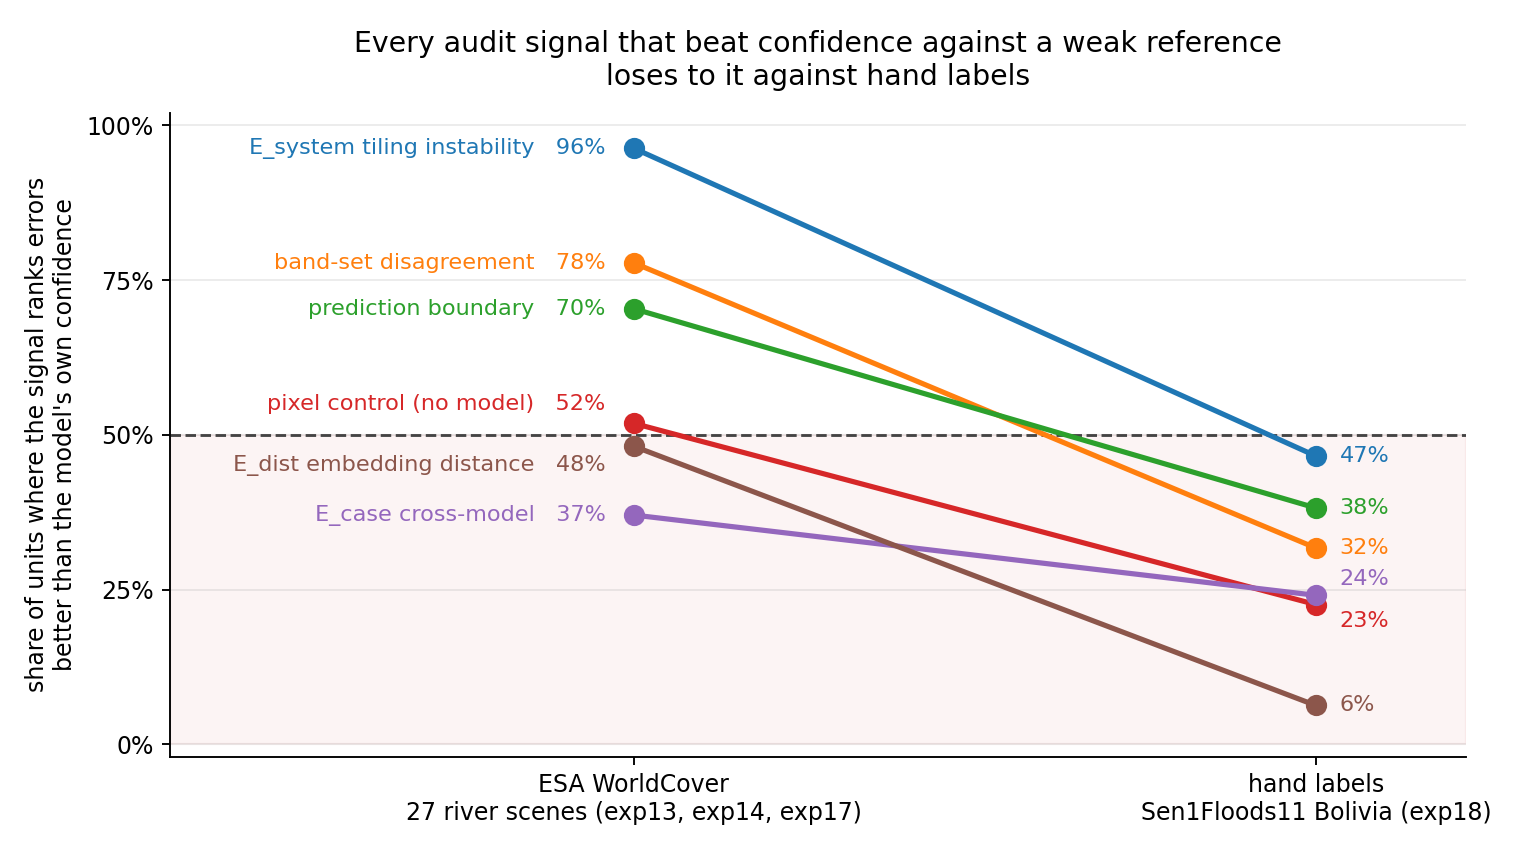
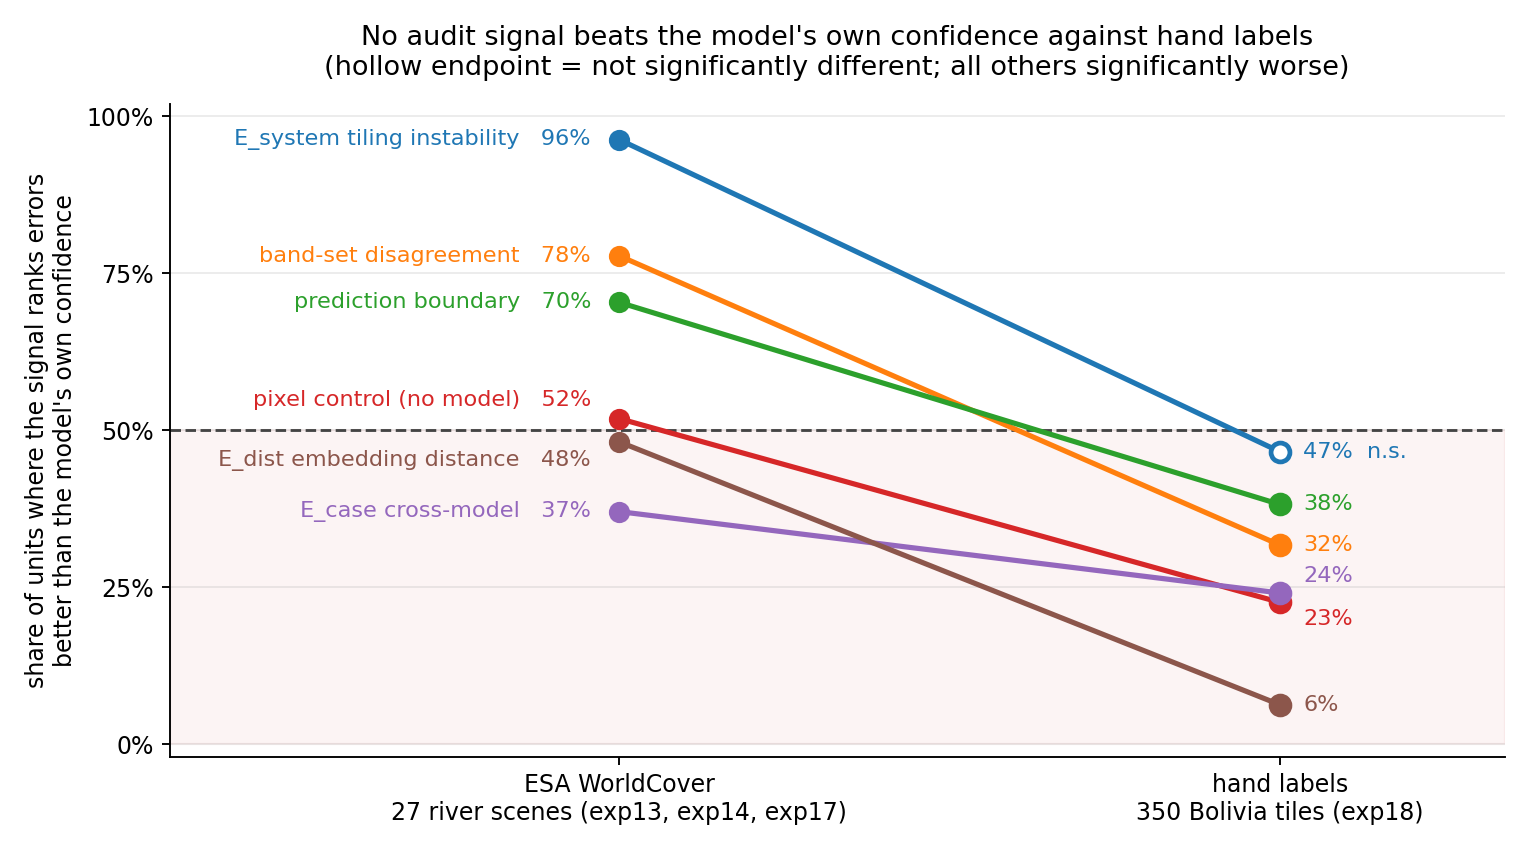
fix(figure): correct an overstated claim; record the statistical limits
The figure I added asserted that every signal 'loses to' confidence against
hand labels. That is false for the headline signal: aligned tile-phase is
163/187 at p=0.22 on Sen1Floods11 Bolivia, which is not significantly
different from confidence. It fails to win; it does not lose. signals.md and
comparisons.md already stated this correctly - the figure did not.

- Title is now 'No audit signal beats the model's own confidence against hand
  labels', which holds for all six.
- Endpoints encode significance: hollow means not significantly different
  (tile-phase, tagged n.s.), filled means significantly worse. p-values read
  from exp18_sen1floods.csv, not hard-coded.
- x-axis names the unit on each side - 27 river scenes against 350 Bolivia
  tiles - since the two columns do not share a denominator.

protocol.md gains a 'Known limits of these tests' section recording three
things a reader is entitled to check:

- The 27 scenes are not 27 independent draws. They sample eight named
  rivers. One vote per river gives tiling instability 8/8, p=0.008, against
  26/27, p=4e-07 at scene level. The result survives clustering, but its
  significance is three orders of magnitude weaker than the scene-level
  p-value implies, so that p-value should not be quoted alone.
- A null is not a demonstration of equality. No equivalence test has been run.
- The WorldCover-to-Sen1Floods11 comparison changes reference, task,
[…]

diff --git a/exp/summary_transfer.py b/exp/summary_transfer.py
@@ -12,6 +12,7 @@ exp18_sen1floods.csv. Writes exp/out/summary_transfer.png.
 
     uv run --extra geo python exp/summary_transfer.py
 """
+import collections
 import csv
 import json
 import os
@@ -43,22 +44,22 @@ with open(os.path.join(OUT, "exp18_sen1floods.csv")) as fh:
 SIGNALS = [
     ("E_system tiling instability",
      (exp13["tile-phase (aligned)"]["w"], exp13["tile-phase (aligned)"]["l"]),
-     "tile-phase (aligned)|W/L"),
+     "tile-phase (aligned)"),
     ("band-set disagreement",
      head_to_head("exp17_internal_evidence.csv", "band-set disagreement", "baseline"),
-     "band-set disagreement|W/L"),
+     "band-set disagreement"),
     ("prediction boundary",
      head_to_head("exp14_boundary_ablation.csv", "pred-boundary", "baseline"),
-     "boundary indicator|W/L"),
+     "boundary indicator"),
     ("pixel control (no model)",
      (exp13["control"]["w"], exp13["control"]["l"]),
-     "control NDWI gradient|W/L"),
+     "control NDWI gradient"),
     ("E_case cross-model",
      (exp13["E_case"]["w"], exp13["E_case"]["l"]),
-     "E_case |Nano-Base||W/L"),
+     "E_case |Nano-Base|"),
     ("E_dist embedding distance",
      (exp13["E_dist"]["w"], exp13["E_dist"]["l"]),
-     "E_dist knn-to-train|W/L"),
+     "E_dist knn-to-train"),
 ]
 
 # Nudges (in points) that keep near-coincident labels legible.
@@ -70,33 +71,87 @@ ax.axhspan(0, 0.5, color="#c62828", alpha=0.05, zorder=0)
 ax.axhline(0.5, color="#444", lw=1.2, ls="--", zorder=2)
 
 cmap = plt.get_cmap("tab10")
-for i, (name, (wins, losses), column) in enumerate(SIGNALS):
-    hand_w, hand_l = (int(v) for v in bolivia[column].split("/"))
+for i, (name, (wins, losses), key) in enumerate(SIGNALS):
+    hand_w, hand_l = (int(v) for v in bolivia[f"{key}|W/L"].split("/"))
+    hand_p = float(bolivia[f"{key}|sign_p"])
     weak, hand = wins / (wins + losses), hand_w / (hand_w + hand_l)
     color = cmap(i)
-    ax.plot([1, 2], [weak, hand], "-o", color=color, lw=2.2, ms=8, zorder=3)
+    # A hollow endpoint means the signal is not significantly different from
+    # confidence there; only filled endpoints are significantly worse.
+    worse = hand_p < 0.05
+    ax.plot([1, 2], [weak, hand], "-", color=color, lw=2.2, zorder=3)
+    ax.plot([1], [weak], "o", color=color, ms=8, zorder=4)
+    ax.plot([2], [hand], "o", color=color, ms=8, zorder=4,
+            markerfacecolor=color if worse else "white", markeredgewidth=2)
     ax.annotate(f"{name}   {weak:.0%}", (1, weak), textcoords="offset points",
                 xytext=(-12, LEFT_DY.get(name, 0)), ha="right", va="center",
                 fontsize=9.5, color=color)
-    ax.annotate(f"{hand:.0%}", (2, hand), textcoords="offset points",
+    tag = f"{hand:.0%}" if worse else f"{hand:.0%}  n.s."
+    ax.annotate(tag, (2, hand), textcoords="offset points",
                 xytext=(10, RIGHT_DY.get(name, 0)), ha="left", va="center",
                 fontsize=9.5, color=color)
 
-ax.set_xlim(0.32, 2.22)
+ax.set_xlim(0.32, 2.34)
 ax.set_ylim(-0.02, 1.02)
 ax.set_xticks([1, 2])
 ax.set_xticklabels(["ESA WorldCover\n27 river scenes (exp13, exp14, exp17)",
-                    "hand labels\nSen1Floods11 Bolivia (exp18)"], fontsize=10)
+                    "hand labels\n350 Bolivia tiles (exp18)"], fontsize=10)
 ax.set_yticks([0, 0.25, 0.5, 0.75, 1])
 ax.set_yticklabels(["0%", "25%", "50%", "75%", "100%"])
 ax.set_ylabel("share of units where the signal ranks errors\nbetter than the model's own confidence",
               fontsize=10)
-ax.set_title("Every audit signal that beat confidence against a weak reference\n"
-             "loses to it against hand labels", fontsize=12, pad=12)
+ax.set_title("No audit signal beats the model's own confidence against hand labels\n"
+             "(hollow endpoint = not significantly different; all others significantly worse)",
+             fontsize=11.5, pad=12)
 for spine in ("top", "right"):
     ax.spines[spine].set_visible(False)
 ax.grid(axis="y", alpha=0.25)
 fig.tight_layout()
+
+# Robustness: the 27 scenes are not 27 independent draws. They sample fixed
+# fractions along eight named rivers, so scenes on one river share its
+# reference errors, its season and its channel morphology. Re-run the sign
+# test with one vote per river (majority of that river's scenes) to see how
+# much of the significance survives clustering.
+RIVER = {"barotse": "Zambezi", "delta": "Zambezi", "kazungula": "Zambezi",
+         "vicfalls_up": "Zambezi", "zambezi_20": "Zambezi", "zambezi_50": "Zambezi",
+         "zambezi_80": "Zambezi", "cuando_20": "Cuando", "cuando_50": "Cuando",
+         "cuando_80": "Cuando", "kafue_20": "Kafue", "kafue_50": "Kafue",
+         "kafue_80": "Kafue", "luangwa_conf": "Luangwa", "okavango_50": "Okavango",
+         "okavango_80": "Okavango", "okavango_sep": "Okavango", "rovuma_20": "Rovuma",
+         "rovuma_50": "Rovuma", "rovuma_80": "Rovuma", "save_20": "Save",
+         "save_50": "Save", "save_80": "Save", "shire_20": "Shire",
+         "shire_50": "Shire", "shire_80": "Shire", "shire_liwonde": "Shire"}
+
+
+def _sign_p(wins, losses):
+    from math import comb
+    n = wins + losses
+    if n == 0:
+        return 1.0
+    k = min(wins, losses)
+    return min(1.0, 2 * sum(comb(n, i) for i in range(k + 1)) / 2 ** n)
+
+
+def river_clustered_check():
+    scenes = collections.defaultdict(dict)
+    with open(os.path.join(OUT, "exp13_corrected_stats.csv")) as fh:
+        for row in csv.DictReader(fh):
+            scenes[row["scene"]][row["signal"]] = float(row["eaurc"])
+    tp = "tile-phase (aligned)"
+    sw = sum(v[tp] < v["baseline"] for v in scenes.values())
+    sl = sum(v[tp] > v["baseline"] for v in scenes.values())
+    per_river = collections.defaultdict(lambda: [0, 0])
+    for name, v in scenes.items():
+        per_river[RIVER[name]][0 if v[tp] < v["baseline"] else 1] += 1
+    rw = sum(1 for a, b in per_river.values() if a > b)
+    rl = sum(1 for a, b in per_river.values() if a < b)
+    print(f"  scene level : {sw}/{sl}  sign p = {_sign_p(sw, sl):.2g}  (n = {sw + sl})")
+    print(f"  river level : {rw}/{rl}  sign p = {_sign_p(rw, rl):.2g}  (n = {rw + rl})")
+
+
+print("tiling instability vs confidence, ESA WorldCover:")
+river_clustered_check()
 
 dest = os.path.join(OUT, "summary_transfer.png")
 fig.savefig(dest, dpi=170)

diff --git a/docs/method/protocol.md b/docs/method/protocol.md
@@ -42,6 +42,29 @@ The statistics settled in exp13 and used by every experiment after it:
 | Cross-scene tests | Exact sign test on untied pairs, plus a sign-flip permutation test on mean E-AURC differences | The sign test is scale-free and is reported as primary; mean-based tests are dominated by high-error scenes. |
 | Reporting | Wins / losses / ties per scene, not means | Same reason. |
 
+### Known limits of these tests
+
+- **The 27 scenes are not 27 independent draws.** They sample fixed fractions
+  along eight named rivers, so scenes on one river share its reference
+  errors, season and channel morphology. Re-running the headline sign test
+  with one vote per river (majority of that river's scenes) gives tiling
+  instability **8/8 rivers, p=0.008**, against 26/27 scenes, p=4e-07. The
+  result survives clustering; its significance is three orders of magnitude
+  weaker than the scene-level figure suggests, and the scene-level p-value
+  should not be quoted on its own. Reproduce with
+  `uv run --extra geo python exp/summary_transfer.py`.
+- **A null is not a demonstration of equality.** Where a signal is reported
+  as not beating confidence at p > 0.05 (aligned tile-phase on Sen1Floods11
+  Bolivia, 163/187, p=0.22) the claim is that no advantage was shown, not
+  that the two are equivalent. No equivalence test has been run.
+- **Cross-testbed comparisons change several things at once.** Moving from
+  the WorldCover scenes to Sen1Floods11 changes the reference, the task
+  (permanent against flood water), the geography, the unit of analysis
+  (scene against tile), the input processing (L2A against L1C through the
+  L2A path) and the head's training set. That the advantage does not
+  transfer is established; *which* of those differences causes it is not,
+  and that is the open question exp23-exp25 attack.
+
 Splits are geographic hold-outs. Scene selection is pre-registered before
 any scene is fetched (the rule is in
 [results/comparisons.md](../results/comparisons.md)); its coordinates have
